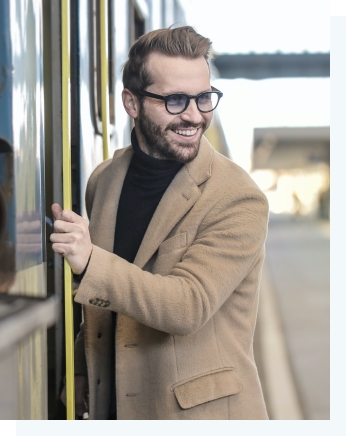
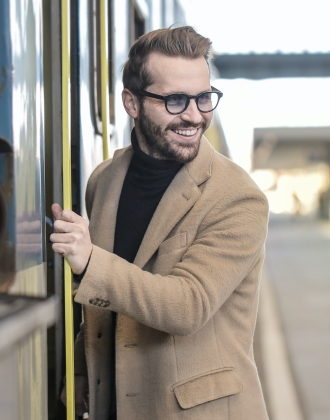
home page

diff --git a/resources/assets/styles/components/cards-slider.scss b/resources/assets/styles/components/cards-slider.scss
@@ -74,6 +74,7 @@
     width: 100%;
     max-width: 360px;
     border-radius: 8px;
+    height: 430px;
     img {
       width: 100%;
       height: 100%;
@@ -123,9 +124,6 @@
     padding-left: 40px;
     width: 100%;
     max-width: 900px;
-    @media (max-width: 767px) {
-      padding-left: 15px;
-    }
     @media (max-width: 575px) {
       display: flex;
       align-items: center;
@@ -164,10 +162,7 @@
   &__card {
     display: flex;
     justify-content: space-around;
-    height: 420px;
-    @media (max-width: 1199px) {
-      height: 338px;
-    }
+    height: 450px;
     @media (max-width: 767px) {
       height: 100%;
     }
@@ -210,13 +205,22 @@
       @media (max-width: 991px) {
         margin-bottom: 0;
       }
-      .card-detail__small-img:first-child {
-        margin-right: 80px;
+      .card-detail__small-img:last-child {
+        margin-left: 40px;
         @media (max-width: 991px) {
-          margin-right: 23px;
+          margin-left: 11px;
         }
         @media (max-width: 330px) {
-          margin-right: 15px;
+          margin-left: 7px;
+        }
+      }
+      .card-detail__small-img:first-child {
+        margin-right: 40px;
+        @media (max-width: 991px) {
+          margin-right: 11px;
+        }
+        @media (max-width: 330px) {
+          margin-right: 7px;
         }
       }
     }
@@ -225,13 +229,22 @@
       display: flex;
       justify-content: center;
       align-items: center;
-      .card-detail__small-img:first-child {
-        margin-right: 80px;
+      .card-detail__small-img:last-child {
+        margin-left: 40px;
         @media (max-width: 991px) {
-          margin-right: 23px;
+          margin-left: 11px;
         }
         @media (max-width: 330px) {
-          margin-right: 15px;
+          margin-left: 7px;
+        }
+      }
+      .card-detail__small-img:first-child {
+        margin-right: 40px;
+        @media (max-width: 991px) {
+          margin-right: 11px;
+        }
+        @media (max-width: 330px) {
+          margin-right: 7px;
         }
       }
     }
@@ -277,7 +290,7 @@
         border-radius: 50%;
         transition: 0.4s;
         top: -87px;
-        right: 28px;
+        right: 60px;
         position: absolute;
         z-index: 9;
         opacity: 0;
@@ -299,8 +312,8 @@
         z-index: -12;
         opacity: 0;
         transition: 0.4s;
-        top: -77px;
-        right: 12px;
+        top: -44px;
+        right: 44px;
         @media (max-width: 767px) {
           width: 90px;
           height: 90px;
@@ -308,23 +321,6 @@
           right: 10px;
         }
       }
-      /* &:before {
-     !*opacity: 0;
-     content: url("images/icons/oval-border.svg");
-     position: absolute;
-     transition: 0.4s;
-     top: -77px;
-     right: 12px;*!
-     @media (max-width: 575px) {
-       content: url("images/slider/small-oval-border.svg");
-       max-width: 90px;
-       height: 90px;
-       border-radius: 50%;
-       border: 1px solid  rgba(25, 20, 19, 0.41);
-       right: 100px;
-       top: -58px;
-     }
-   }*/
       img {
         transition: 0.4s;
         width: 100%;

diff --git a/resources/assets/styles/common/_global.scss b/resources/assets/styles/common/_global.scss
@@ -182,6 +182,17 @@
   background-position: center;
   width: 100%;
   height: 100%;
+  position: relative;
+  &:before {
+    content: "";
+    position: absolute;
+    width: 100%;
+    height: 100%;
+    left: 15px;
+    top: 15px;
+    background: #f3f9fa;
+    z-index: -12;
+  }
 }
 .current {
   &:before {

diff --git a/resources/assets/styles/components/future.scss b/resources/assets/styles/components/future.scss
@@ -11,7 +11,7 @@
     margin-bottom: 80px;
   }
   @media (max-width: 575px) {
-    padding-top: 85px;
+    padding-top: 140px;
   }
   &:after {
     z-index: -12;
